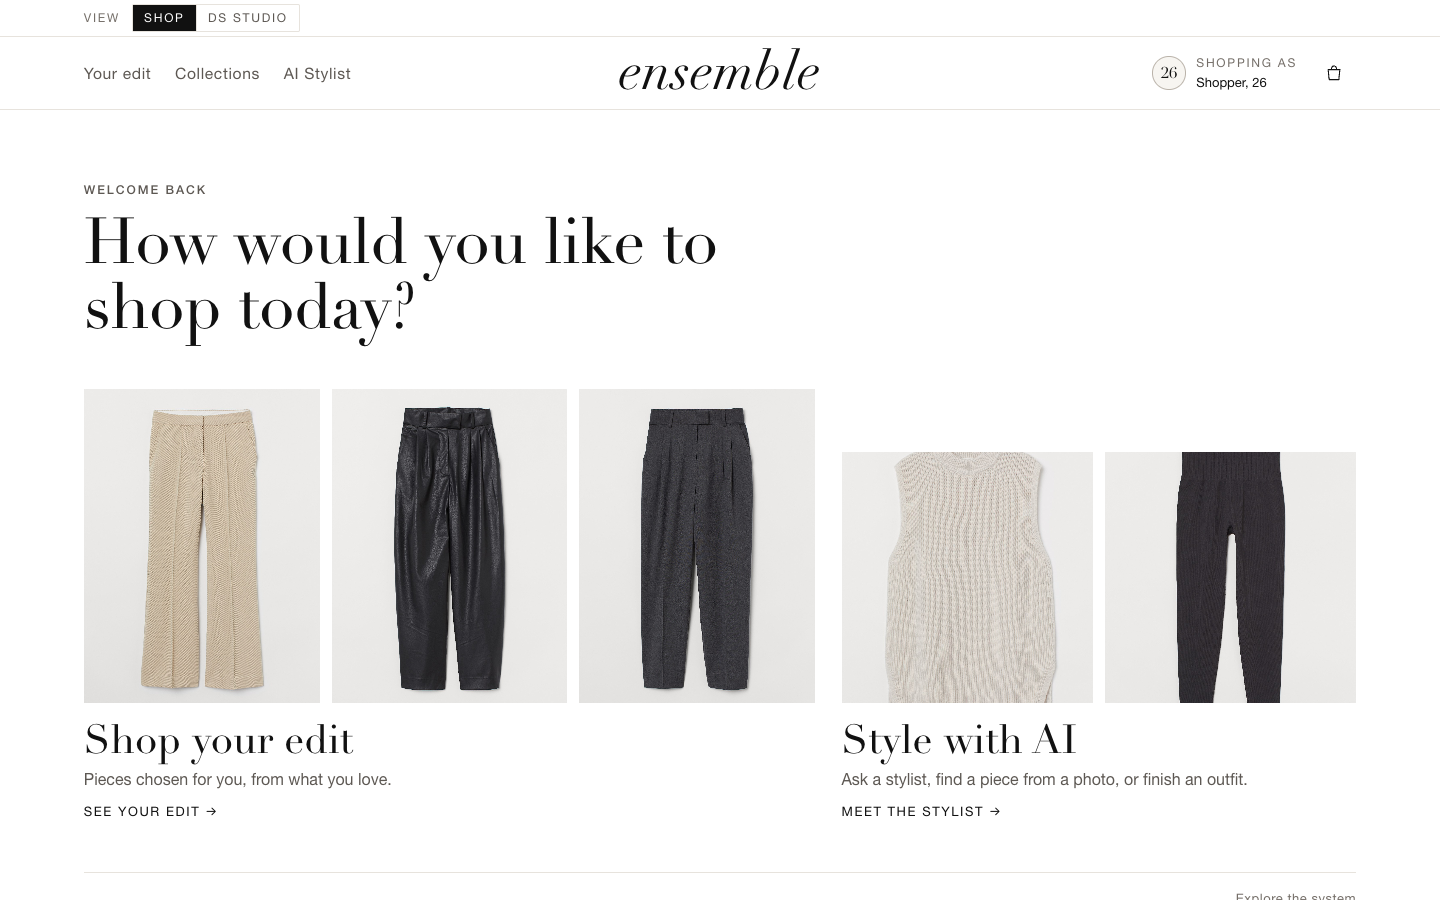
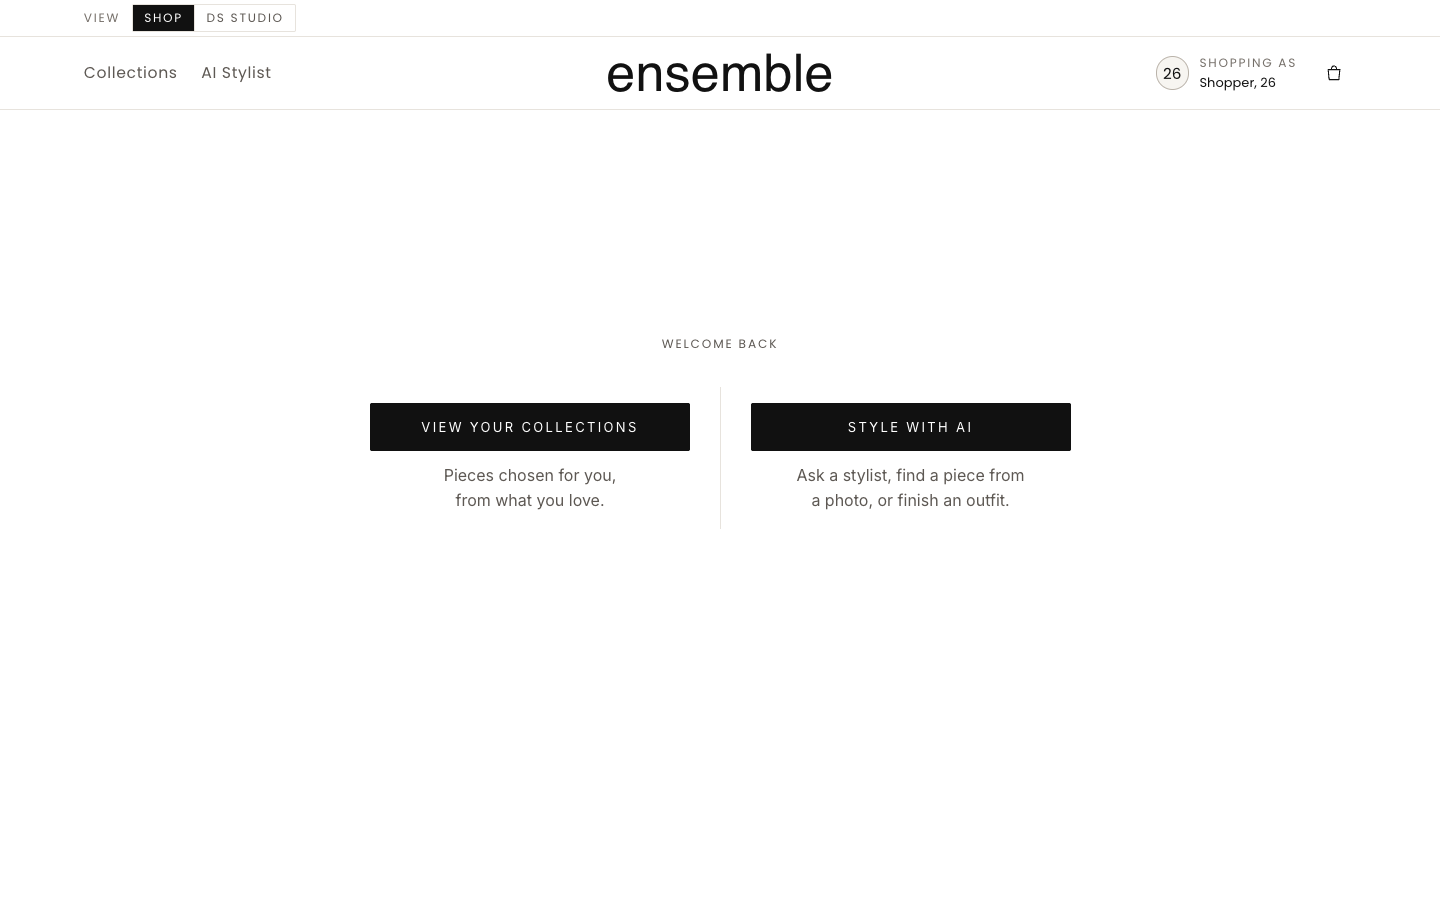
docs(readme): a tour of every stage of the live site
Fresh screenshots of the live site (Pages + Modal): collections, product page with photo swatches, the AI
Stylist hub, Ask (opening and a grounded answer), Find (choose and results), Complete my look (review and
edit), DS Studio and two phone views; route table and deployment notes updated.

diff --git a/scripts/ui/readme_shots.js b/scripts/ui/readme_shots.js
@@ -1,57 +1,84 @@
 // README screenshots of the real app on the live backend (no mock-ups, no generated imagery).
 //   PLAYWRIGHT=/path/to/playwright node scripts/ui/readme_shots.js [base-url]
-// Uses the CC0 photo data/raw/outfit_photos/full_03.jpg (credited in CREDITS.csv) for the stylist flow,
-// and corrects the detected category in Review, as a shopper would.
+// Default base: `make pages-preview` (the Pages build, calling the live Modal API). The stylist flows use the CC0
+// photo data/raw/outfit_photos/full_03.jpg (credited in CREDITS.csv), never a private photo.
 const { chromium } = require(process.env.PLAYWRIGHT || 'playwright');
 const BASE = process.argv[2] || 'http://localhost:8040/ensemble-outfit-recommender/';
 const OUT = 'docs/assets';
 const PHOTO = 'data/raw/outfit_photos/full_03.jpg';
+const PRODUCT = '898713001';   // Hanoi Oversize Blazer: a houndstooth, so its swatch is a fabric crop
 
 const ready = p => p.waitForFunction(() => [...document.images].filter(i => { const r = i.getBoundingClientRect(); return r.bottom > 0 && r.top < innerHeight && r.width > 0; })
   .every(i => i.complete && i.naturalWidth > 0), null, {timeout: 60000}).catch(() => {});
-const settle = async p => { await p.waitForLoadState('networkidle', {timeout: 15000}).catch(() => {}); await p.waitForTimeout(600); await ready(p); };
+const settle = async p => { await p.waitForLoadState('networkidle', {timeout: 20000}).catch(() => {}); await p.waitForTimeout(800); await ready(p); };
+const shot = async (p, name, o = {}) => { await p.mouse.move(1, 1); await settle(p); await p.screenshot({path: `${OUT}/${name}.png`, ...o}); console.log('  ' + name); };
+const fresh = async (p, hash) => { await p.goto(BASE + hash); await settle(p); await p.evaluate(() => sessionStorage.clear()); await p.reload(); await settle(p); };
 
-async function look(p, shots) {
-  await p.goto(BASE + '#/stylist/look'); await settle(p);
-  await p.evaluate(() => sessionStorage.clear()); await p.reload(); await settle(p);
+async function find(p) {
+  await fresh(p, '#/stylist/find');
+  await shot(p, 'find_photo');
+  await p.setInputFiles('.dropzone input', PHOTO); await p.waitForSelector('.photo-preview img');
+  await p.click('#find-next');
+  await p.waitForSelector('.piece', {timeout: 300000}); await settle(p);
+  // Frame the shirt dress by dragging around it, as a shopper does (the detector's boxes can be loose).
+  await p.$eval('#picker img', i => i.scrollIntoView({block: 'center'}));
+  const r = await (await p.$('#picker img')).boundingBox();
+  await p.mouse.move(r.x + r.width * .37, r.y + r.height * .2); await p.mouse.down();
+  await p.mouse.move(r.x + r.width * .57, r.y + r.height * .62, {steps: 8}); await p.mouse.up();
+  await shot(p, 'find_choose');
+  await p.click('#find-go');
+  await p.waitForFunction(() => location.hash.includes('step=results'), null, {timeout: 300000}); await settle(p);
+  await shot(p, 'find_results', {fullPage: true});
+}
+
+async function look(p) {
+  await fresh(p, '#/stylist/look');
   await p.setInputFiles('.dropzone input', PHOTO); await p.waitForSelector('.photo-preview img');
   await p.click('#look-detect');
   await p.waitForFunction(() => location.hash.includes('step=review'), null, {timeout: 300000}); await settle(p);
-  // The model may call a shirt dress a "top": correct it in Review.
+  // The model may call a shirt dress a "top": correct it in Review, as a shopper would.
   const first = await p.$('.garment:first-child [data-field="category"]');
   const desc = await p.$eval('.garment:first-child .garment__name', e => e.textContent.toLowerCase());
   if (/dress/.test(desc)) await first.selectOption('dress');
-  await p.mouse.move(1, 1); await settle(p);
-  if (shots.review) await p.screenshot({path: shots.review});
-  await p.click('#review-next'); await settle(p);
-  await p.check('input[name=goal][value=complete]');
-  await p.click('#dir-next');
+  await shot(p, 'look_review', {fullPage: true});
+  await p.click('#review-next');
   await p.waitForFunction(() => location.hash.includes('step=edit'), null, {timeout: 300000}); await settle(p);
-  await p.mouse.move(1, 1); await settle(p);
-  if (shots.edit) await p.screenshot({path: shots.edit});
-  if (shots.refine) {
-    await p.click('.task__actions .btn--solid'); await settle(p);
-    await p.fill('#chat-in', 'Make it more formal'); await p.keyboard.press('Enter');
-    await p.waitForSelector('#pending', {state: 'detached', timeout: 300000}); await settle(p);
-    // Show the start of the stylist's reply (its text, then the product cards), not just the last cards.
-    await p.evaluate(() => { const m = [...document.querySelectorAll('#chatlog .msg--bot')].at(-1); m.scrollIntoView({block: 'start'}); });
-    await p.waitForTimeout(400); await ready(p);
-    await p.screenshot({path: shots.refine});
-  }
+  await shot(p, 'look_edit', {fullPage: true});
+}
+
+async function ask(p) {
+  await fresh(p, '#/stylist/ask');
+  await p.waitForFunction(() => [...document.querySelectorAll('.reply__img')].every(i => i.complete && i.naturalWidth > 0), null, {timeout: 30000}).catch(() => {});
+  await shot(p, 'ask_start');
+  await p.click('.reply');
+  await p.waitForSelector('#pending', {state: 'detached', timeout: 300000}); await settle(p);
+  // The whole exchange (question, answer, product cards) in one picture: let the chat grow instead of scrolling.
+  await p.evaluate(() => { document.querySelector('#chatlog').style.maxHeight = 'none'; });
+  await p.waitForTimeout(400); await ready(p);
+  await shot(p, 'ask_answer', {fullPage: true});
 }
 
 (async () => {
   const b = await chromium.launch({channel: 'chrome'});
   const desk = await (await b.newContext({viewport: {width: 1440, height: 900}})).newPage();
-  await desk.goto(BASE + '#/'); await settle(desk); await desk.mouse.move(1, 1);
-  await desk.screenshot({path: `${OUT}/home_desktop.png`});
-  await look(desk, {edit: `${OUT}/assistant_desktop.png`});
-  await desk.goto(BASE + '#/studio'); await desk.waitForSelector('table.data tbody tr'); await settle(desk);
-  await desk.screenshot({path: `${OUT}/studio_desktop.png`});
+  await desk.goto(BASE + '#/'); await settle(desk);
+  await shot(desk, 'home_desktop');
+  await desk.goto(BASE + '#/collections'); await desk.waitForSelector('main .grid .card', {timeout: 120000}); await settle(desk);
+  await shot(desk, 'collections_desktop');
+  await desk.goto(BASE + `#/product/${PRODUCT}`); await desk.waitForSelector('.pdp [data-add]', {timeout: 120000}); await settle(desk);
+  await shot(desk, 'product_desktop');
+  await desk.goto(BASE + '#/stylist'); await settle(desk);
+  await shot(desk, 'stylist_hub');
+  await ask(desk);
+  await find(desk);
+  await look(desk);
+  await desk.goto(BASE + '#/studio'); await desk.waitForSelector('table.data tbody tr', {timeout: 120000}); await settle(desk);
+  await shot(desk, 'studio_desktop');
   const phone = await (await b.newContext({viewport: {width: 390, height: 844}, deviceScaleFactor: 2})).newPage();
   await phone.goto(BASE + '#/'); await settle(phone);
-  await phone.screenshot({path: `${OUT}/home_mobile.png`});
-  await look(phone, {review: '/tmp/ensemble_readme_review.png', edit: '/tmp/ensemble_readme_edit.png', refine: '/tmp/ensemble_readme_refine.png'});
+  await shot(phone, 'home_mobile');
+  await phone.goto(BASE + '#/stylist/ask'); await settle(phone);
+  await shot(phone, 'ask_mobile');
   await b.close();
   console.log('captured');
 })().catch(e => { console.error(e); process.exit(1); });

diff --git a/README.md b/README.md
@@ -11,48 +11,74 @@ In machine learning, it also means several models combined. This project is both
 &nbsp;&nbsp;·&nbsp;&nbsp;
 [Run locally](#quickstart)
 
-![Ensemble: "How would you like to shop today?" with two choices, Shop your edit and Style with AI](docs/assets/home_desktop.png)
+![Ensemble: the first page — "Welcome back", View your collections or Style with AI](docs/assets/home_desktop.png)
 
 > **The live demo is the real application.** GitHub Pages serves the same HTML, CSS and JavaScript that
 > `make serve` serves locally, and every request goes to the FastAPI backend running on Modal: live
-> recommendations and Complete the Look, photo upload with FashionCLIP visual search, outfit analysis and
-> the grounded Style Assistant (Claude). Catalogue photos come from Cloudflare R2. Nothing is pre-recorded.
-> The backend scales to zero when idle, so the first visit after a quiet period takes about 20–30 seconds.
+> recommendations, photo upload with FashionCLIP visual search, outfit analysis and the grounded AI stylist
+> (Claude). Catalogue photos come from Cloudflare R2. Nothing is pre-recorded. The backend scales to zero when
+> idle, so the first visit after a quiet period takes about 20–30 seconds.
 
-<p align="center">
-  <img src="docs/assets/assistant_desktop.png" alt="Complete my look, step 4: an edit of four pieces that pair with the outfit, each with colours, price and Add to cart" width="67%">
-  <img src="docs/assets/home_mobile.png" alt="The gateway on a phone" width="25%">
-</p>
-
-**How it is organised for shoppers** — pages follow the decision you are making, not the model behind it
+**How it is organised for shoppers**: pages follow the decision you are making, not the model behind it
 ([product-flow spec](docs/AI_STYLIST_PRODUCT_FLOW.md)):
 
 | route | page |
 | --- | --- |
-| `#/` | gateway: *Shop your edit* or *Style with AI* (and a quiet link to DS Studio) |
-| `#/collections[/<tab>]`, `#/product/:id` | Collections: Selected for you (the ranker) · Buy it again · Trending as tabs (old `#/shop` links redirect here); product pages with colour-card / fabric swatches and Similar items (Complete the Look lives in the AI Stylist, D-049) |
+| `#/` | first page: *View your collections* or *Style with AI* (touch ripple, fade on choice) |
+| `#/collections[/<tab>]`, `#/product/:id` | Collections: Selected for you (the ranker) · Buy it again · Trending; product pages with photo-read colour swatches and four similar items |
 | `#/stylist` | AI Stylist hub with three tasks |
-| `#/stylist/ask` | Ask the stylist — conversation with optional photo; products only from tool results |
-| `#/stylist/find` | Find this piece — photo → frame (or whole photo) → visually similar pieces |
-| `#/stylist/look` | Complete my look — Photo → **Review what we spotted** → Your edit (four mixed picks) → Refine with the stylist |
+| `#/stylist/ask` | Ask the stylist: a conversation (optional photo); products only from tool results, shown by name |
+| `#/stylist/find` | Find this piece: photo → tap or frame the pieces → the four closest per piece |
+| `#/stylist/look` | Complete my look: photo → **review what we spotted** → your edit of four (mixed kinds) → refine with the stylist |
 | `#/studio…` | DS Studio: offline evaluation, serving status, recommendation inspection |
 
-Old `#/assistant` links redirect to `#/stylist/ask`.
+### A tour of the live site
 
-![Ensemble DS Studio offline evaluation](docs/assets/studio_desktop.png)
+All screenshots are the live site (Pages + Modal). The stylist flows use a CC0 street-style photo (credit below).
+
+<table>
+<tr>
+<td width="50%"><img src="docs/assets/collections_desktop.png" alt="Collections: Selected for you, Buy it again and Trending as tabs, with category filters and product cards"><br>
+<b>Collections.</b> The ranker's <i>Selected for you</i>, <i>Buy it again</i> and <i>Trending</i>, one card per product family.</td>
+<td width="50%"><img src="docs/assets/product_desktop.png" alt="Product page for a houndstooth blazer whose colour swatch shows the houndstooth fabric"><br>
+<b>Product page.</b> Swatches are read from each colourway's photo: plain pieces get a colour-card chip, patterns (here a houndstooth) show their fabric.</td>
+</tr>
+<tr>
+<td><img src="docs/assets/stylist_hub.png" alt="AI Stylist hub: What can we help with? Ask the stylist, Find this piece, Complete my look"><br>
+<b>AI Stylist.</b> Three tasks, each with its own route.</td>
+<td><img src="docs/assets/ask_start.png" alt="Ask the stylist opens as a conversation: a greeting bubble and three reply bubbles with product photos"><br>
+<b>Ask the stylist.</b> Opens as a conversation; tap a reply bubble or type your own.</td>
+</tr>
+<tr>
+<td><img src="docs/assets/ask_answer.png" alt="The stylist answers with four shoes for wide-leg trousers, named in the text and shown as product cards"><br>
+<b>A grounded answer.</b> At most four products, each one a catalogue item a tool returned, named, never numbered.</td>
+<td><img src="docs/assets/find_choose.png" alt="Find this piece: the shopper frames the shirt dress on the photo; the spotted pieces are listed on the side"><br>
+<b>Find this piece · choose.</b> The photo stays clean until you tap or drag; each chosen piece shows what it is and can be corrected.</td>
+</tr>
+<tr>
+<td><img src="docs/assets/find_results.png" alt="Find results: the four closest pieces to the framed top"><br>
+<b>Find this piece · results.</b> The four closest catalogue pieces for each chosen piece (FashionCLIP + street-to-shop adapter).</td>
+<td><img src="docs/assets/look_review.png" alt="Complete my look review: detected pieces numbered on the photo and listed for correction"><br>
+<b>Complete my look · review.</b> The vision model's detections, for the shopper to fix before anything is recommended.</td>
+</tr>
+<tr>
+<td><img src="docs/assets/look_edit.png" alt="Complete my look: an edit of four pieces of different kinds that pair with the outfit"><br>
+<b>Complete my look · your edit.</b> Four picks of different kinds from Complete the Look (Track B) for the confirmed outfit.</td>
+<td><img src="docs/assets/studio_desktop.png" alt="DS Studio offline evaluation tables"><br>
+<b>DS Studio.</b> The data-science view: offline evaluation, serving, inspection.</td>
+</tr>
+</table>
 
 <p align="center">
-  <img src="docs/assets/style_assistant_interaction.png"
-       alt="Complete my look on a phone: reviewing the detected pieces, the edit, and refining it with the stylist"
-       width="78%">
+  <img src="docs/assets/home_mobile.png" alt="The first page on a phone" width="30%">
+  &nbsp;
+  <img src="docs/assets/ask_mobile.png" alt="Ask the stylist on a phone" width="30%">
 </p>
 
-<p align="center"><em>Complete my look on the live site (phone). <b>Review:</b> the vision model's detections are
-shown on the photo and the shopper corrects them before anything is recommended (here a shirt dress the model
-called a "top" is changed to a dress). <b>Your edit:</b> pieces from Complete the Look for the confirmed outfit.
-<b>Refine:</b> a conversation preloaded with the look; the stylist may only cite products a tool returned. Photo:
+<p align="center"><em>Photo in the stylist flows:
 <a href="https://commons.wikimedia.org/wiki/File:New_York_Street_Fashion_(Unsplash).jpg">New York Street Fashion</a>,
-Yegide Matthews, CC0.</em></p>
+Yegide Matthews, CC0. The live detector (Claude) places boxes loosely; shoppers correct them in Review or by
+framing the piece themselves.</em></p>
 
 **Ensemble recommends clothing the way a stylist would:**
 - what *you* will likely buy next;
@@ -252,6 +278,9 @@ reimplemented for the web.
   and the FashionCLIP index on a Modal Volume; catalogue photos are served from a Cloudflare R2 bucket.
   Outfit analysis and the assistant call the Claude API (Haiku) under a monthly budget cap. The local-only
   research tool **Label** is not offered by the hosted shop, and the hosted API refuses it.
+- **Fresh after every release** — both builds link the frontend under a content-versioned folder
+  (`static/v-<hash>/`), so a browser or CDN can never mix a new page with old cached scripts. The colour
+  swatches (`make swatches`) live in their own SQLite file next to the serving store on the Modal Volume.
 
 Every number in DS Studio is the stored evaluation report and **offline**: historical data, not production
 traffic. A launch decision would need an online A/B test. See D-047 in
@@ -259,6 +288,8 @@ traffic. A launch decision would need an online A/B test. See D-047 in
 
 ```bash
 make serve                                   # the real application, http://localhost:8010
+make swatches                                # colour swatches from the product photos (~3 min)
+modal volume put ensemble-serving-data data/processed/swatches.sqlite processed/swatches.sqlite
 make modal-deploy                            # deploy the API to Modal (deploy venv with the modal CLI)
 make pages                                   # rebuild portfolio/ pointed at the Modal API; push to publish
 make pages-preview                           # serve portfolio/ at the GitHub project subpath
